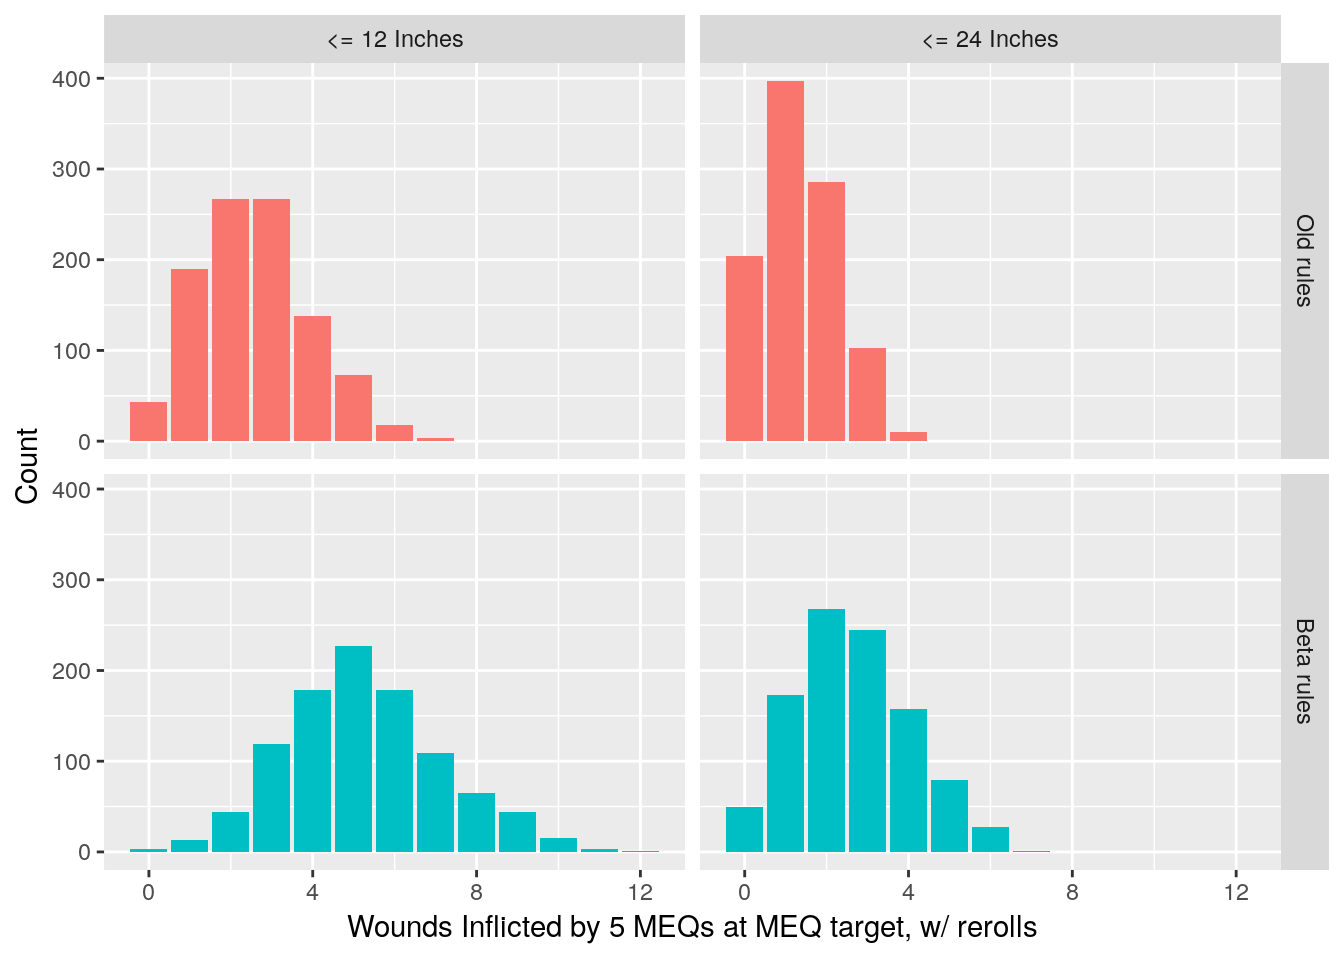
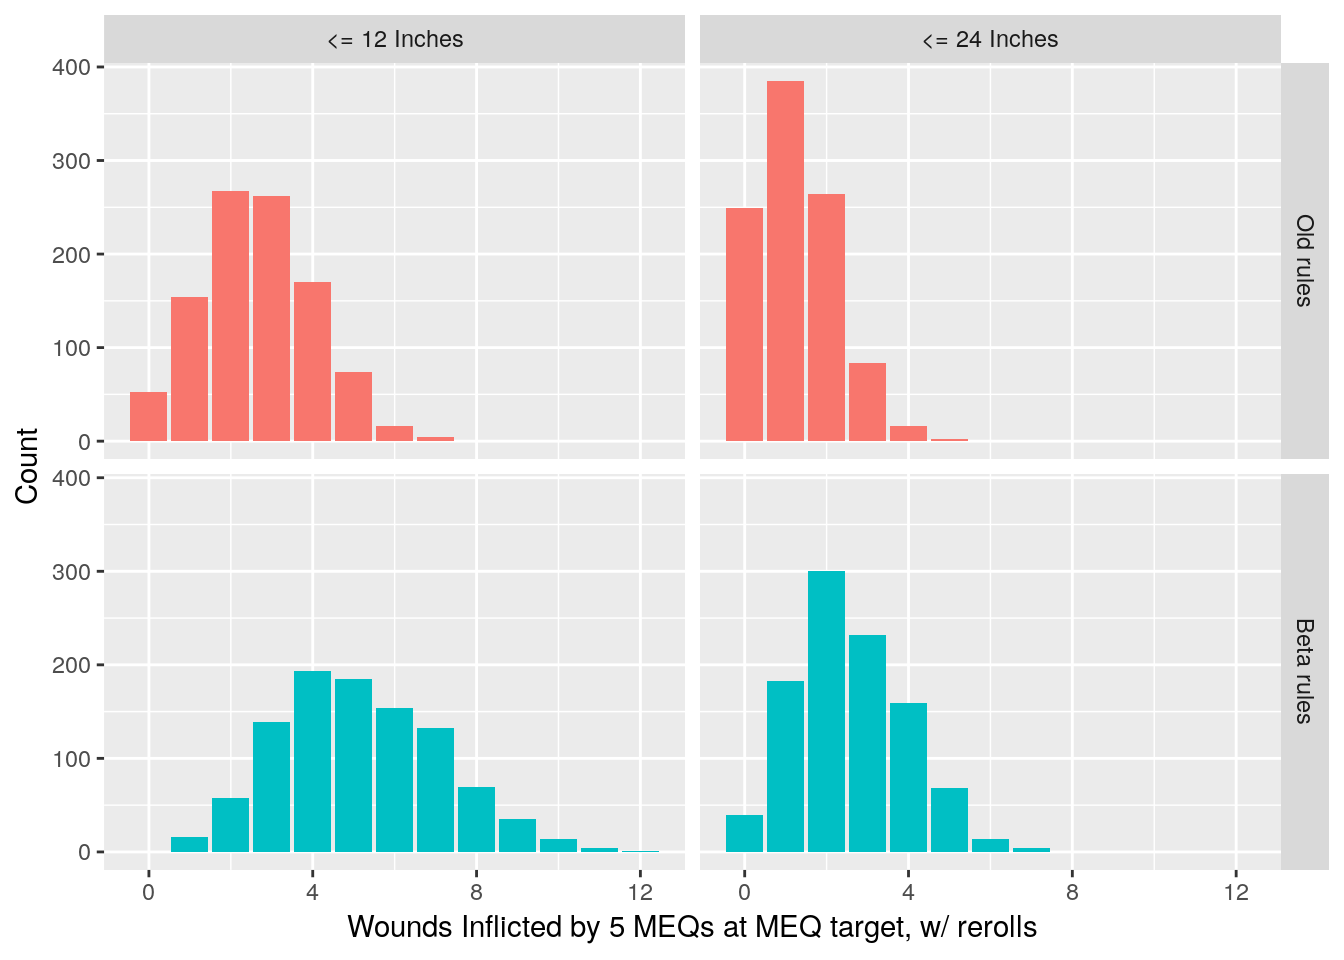
clarified bolter discipline

diff --git a/post/bolter-drill/index.html b/post/bolter-drill/index.html
@@ -357,7 +357,7 @@ library(forcats)
 library(ggplot2)
 library(mathhammr)</code></pre>
 <p>The first thing I want to demonstrate is the effect of Bolter Discipline on my Tactical Marines.</p>
-<p>Let’s begin by looking at how well a 5-man squad of marines does against another squad of marines before and after Bolter Discipline, at 24 inches and at 12 inches. Let’s do this by generating 1000 simulated series.</p>
+<p>Let’s begin by looking at how well a 5-man squad of marines does against another squad of marines before and after Bolter Discipline, at 24 inches and at 12 inches, and having not moved that turn. Let’s do this by generating 1000 simulated series.</p>
 <pre class="r"><code>n &lt;- 1000
 codex_24 &lt;- replicate(n, to_attack(n= 5, skill = 3)) %&gt;%
   map_dbl(., ~ to_wound(n = .x, str = 4, tgh = 4)) %&gt;%
